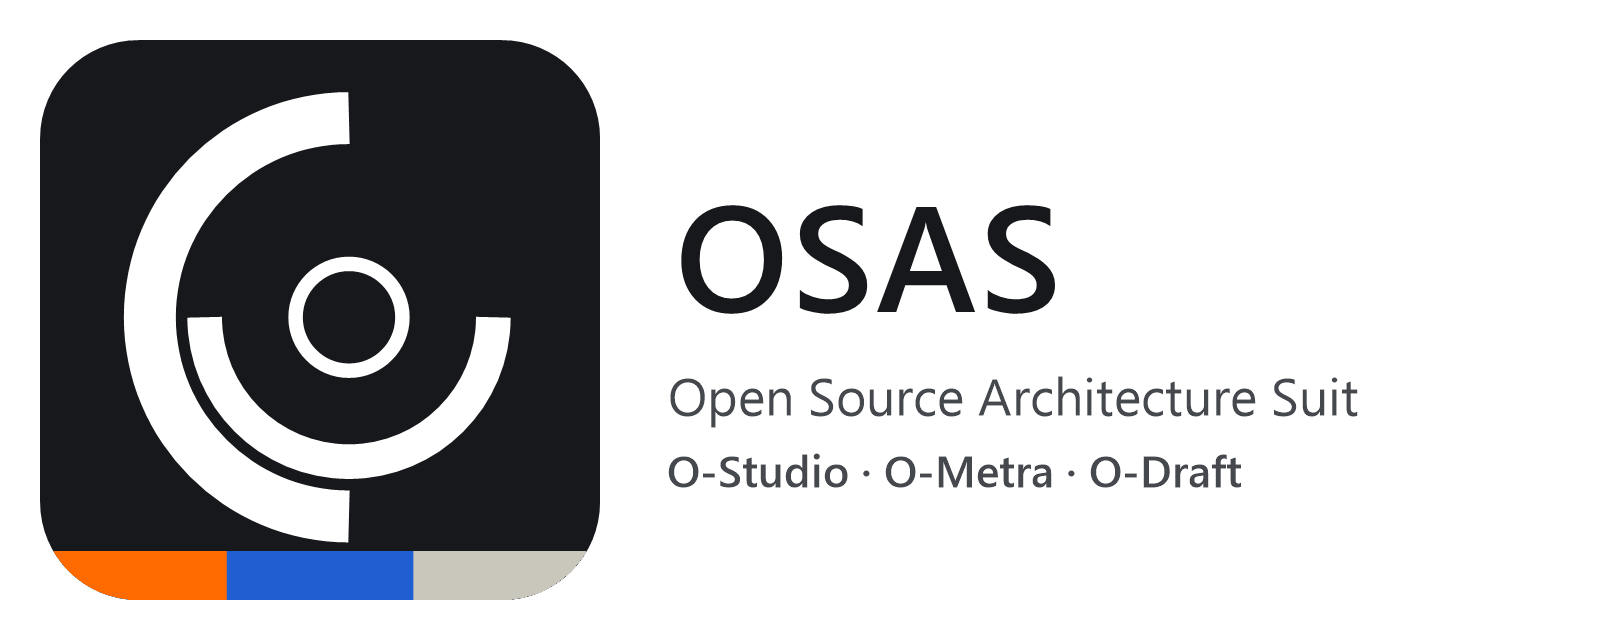
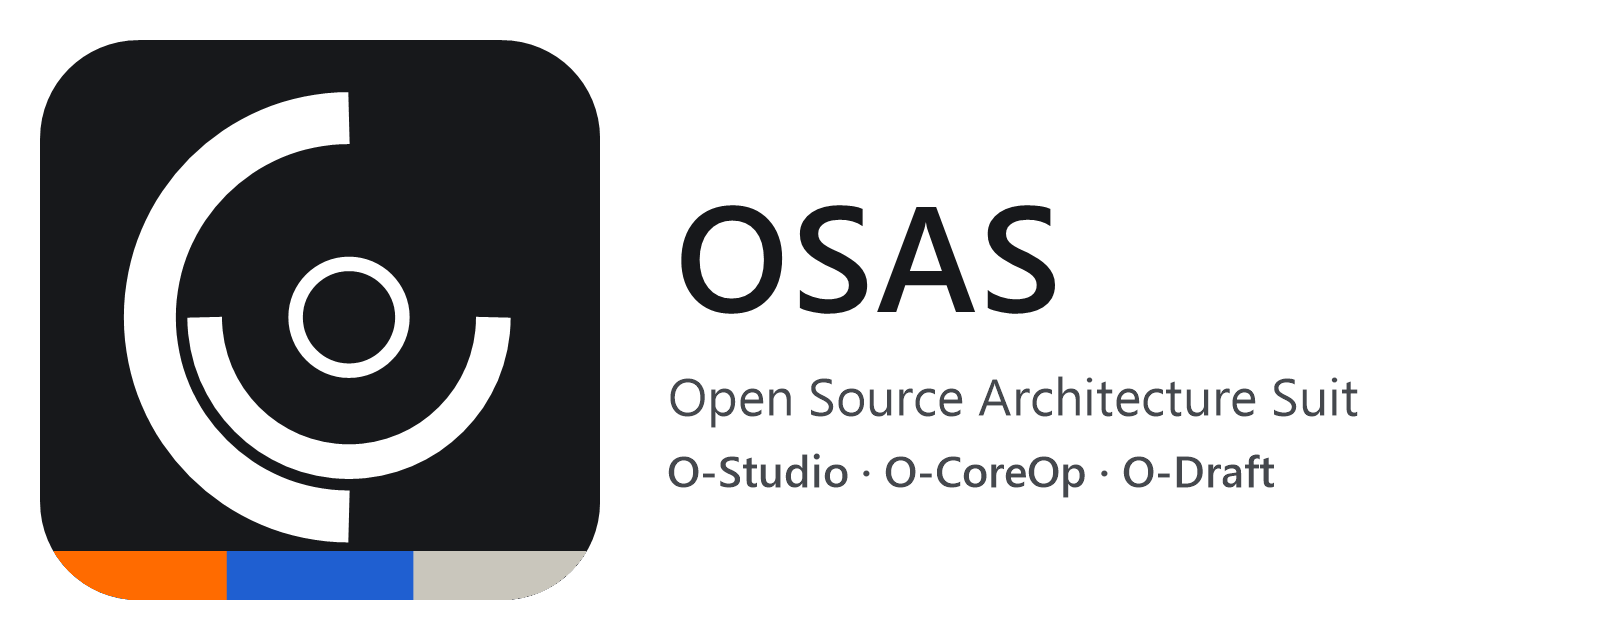
Rename O-Metra to O-CoreOp (display name only; identifiers, app ids and session names unchanged)

Changed region(s): [[0.5625, 0.6875, 0.8125, 0.7812]]

diff --git a/Hcw.Ui/Themes/SuiteAccent.Blue.xaml b/Hcw.Ui/Themes/SuiteAccent.Blue.xaml
@@ -1,5 +1,5 @@
 <?xml version="1.0" encoding="utf-8"?>
-<!-- The accent of O-Metra. Fills and marks use SuiteAccent; text in the accent colour uses SuiteAccentText; SuiteOnAccent is the text on a fill. Generated by tools/make-variants.mjs. -->
+<!-- The accent of O-CoreOp. Fills and marks use SuiteAccent; text in the accent colour uses SuiteAccentText; SuiteOnAccent is the text on a fill. Generated by tools/make-variants.mjs. -->
 <ResourceDictionary
     xmlns="http://schemas.microsoft.com/winfx/2006/xaml/presentation"
     xmlns:x="http://schemas.microsoft.com/winfx/2006/xaml">

diff --git a/tools/Brand/Program.cs b/tools/Brand/Program.cs
@@ -10,7 +10,7 @@ var output = args.Length > 0 ? args[0] : Path.Combine(AppContext.BaseDirectory, 
 var apps = new (string Folder, string Name, Color Plate)[]
 {
     ("studio", "O-Studio", ColorTranslator.FromHtml("#FF6B00")),
-    ("metra", "O-Metra", ColorTranslator.FromHtml("#1F5FD1")),
+    ("coreop", "O-CoreOp", ColorTranslator.FromHtml("#1F5FD1")),
     ("draft", "O-Draft", ColorTranslator.FromHtml("#17181B")),
     ("osas", "OSAS", ColorTranslator.FromHtml("#17181B")),
 };
@@ -160,7 +160,7 @@ static Bitmap Lockup(string name, Color plate, bool suite = false)
     if (suite)
     {
         g.DrawString("Open Source Architecture Suit", line, softBrush, 660, 360);
-        g.DrawString("O-Studio · O-Metra · O-Draft", small, softBrush, 660, 440);
+        g.DrawString("O-Studio · O-CoreOp · O-Draft", small, softBrush, 660, 440);
         return bitmap;
     }
     g.DrawString("Open Source Architecture Suit", line, softBrush, 660, 360);

diff --git a/Hcw.Ui/SuiteBrand.cs b/Hcw.Ui/SuiteBrand.cs
@@ -6,7 +6,7 @@ public enum SuiteApp
     /// <summary>O-Studio: the office. Orange.</summary>
     Studio,
 
-    /// <summary>O-Metra: quantities and costing. Blue.</summary>
+    /// <summary>O-CoreOp: quantities and costing. Blue.</summary>
     Metra,
 
     /// <summary>O-Draft: drafting. Black.</summary>
@@ -22,7 +22,7 @@ public static class SuiteBrand
     public static string Name(SuiteApp app) => app switch
     {
         SuiteApp.Studio => "O-Studio",
-        SuiteApp.Metra => "O-Metra",
+        SuiteApp.Metra => "O-CoreOp",
         _ => "O-Draft",
     };
 

diff --git a/README.md b/README.md
@@ -1,11 +1,11 @@
 # Hcw.Ui
 
-The shared design of **OSAS, the Open Source Architecture Suit**: its colours, text styles, control defaults, marks and a few layout controls. O-Studio (the office app) and O-Metra (quantities, estimates and billing) use it now; O-Draft (drafting) is meant to follow. It is a WinUI 3 class library for .NET 8 under the MIT licence (the marks in `brand/` are separate, see `brand/LICENSE.md`). MIT code can be used inside O-Metra, which is AGPL-3.0, and inside O-Draft, which is MIT or Apache-2.0.
+The shared design of **OSAS, the Open Source Architecture Suit**: its colours, text styles, control defaults, marks and a few layout controls. O-Studio (the office app) and O-CoreOp (quantities, estimates and billing) use it now; O-Draft (drafting) is meant to follow. It is a WinUI 3 class library for .NET 8 under the MIT licence (the marks in `brand/` are separate, see `brand/LICENSE.md`). MIT code can be used inside O-CoreOp, which is AGPL-3.0, and inside O-Draft, which is MIT or Apache-2.0.
 
 | App | Was | Accent |
 |---|---|---|
 | O-Studio | AOS | Orange `#FF6B00`, ink text on it |
-| O-Metra | AQC | Blue `#1F5FD1`, white text on it |
+| O-CoreOp | AQC | Blue `#1F5FD1`, white text on it |
 | O-Draft | AAD | Black `#1B1C20`, white text on it |
 
 ## What is in it
@@ -17,7 +17,7 @@ The shared design of **OSAS, the Open Source Architecture Suit**: its colours, t
 | `Themes/SuiteStyles.xaml` | Text styles (page title, section title, body, secondary, caption, table header and cell), defaults for buttons, text boxes and combo boxes, the primary button in the accent colour, a card and a chip |
 | `Themes/SuiteNavigation.<Accent>.xaml`, `SuiteNavigation.cs` | The look of the left navigation pane: ink indicator, accent wash on the selected page |
 | `SuiteBrand.cs` | The names of the suite and its apps (`SuiteApp.Studio`, `.Metra`, `.Draft`) |
-| `brand/`, `tools/Brand` | The marks: the O-Metra logo redrawn as geometry in each app's colour, as PNG, ICO, a lockup and the Windows tiles. Run `dotnet run --project tools/Brand -- brand` to draw them again |
+| `brand/`, `tools/Brand` | The marks: the O-CoreOp logo redrawn as geometry in each app's colour, as PNG, ICO, a lockup and the Windows tiles. Run `dotnet run --project tools/Brand -- brand` to draw them again |
 | `Controls/FlexBar.cs` | A row of buttons that wraps when the page is narrow |
 
 Accent colours are for fills and marks. Use `SuiteAccentText` for text in the accent colour. Contrast on white: ink 17.2, ink soft 8.9. Orange text 6.2, blue text 7.7. Ink on orange 6.3, white on blue 5.8.

diff --git a/brand/LICENSE.md b/brand/LICENSE.md
@@ -1,6 +1,6 @@
 # The OSAS marks
 
-The files in this folder (the O-Studio, O-Metra, O-Draft and OSAS marks, icons, tiles and lockups) are original artwork by Human Centric Works, derived from the AQC logo.
+The files in this folder (the O-Studio, O-CoreOp, O-Draft and OSAS marks, icons, tiles and lockups) are original artwork by Human Centric Works, derived from the AQC logo.
 
 They are **not** covered by the MIT licence of the code in this repository. Copyright 2026 Human Centric Works, all rights reserved. They may be used to identify the OSAS apps and in documents that describe them. They may not be used to suggest that another product is part of OSAS.
 
